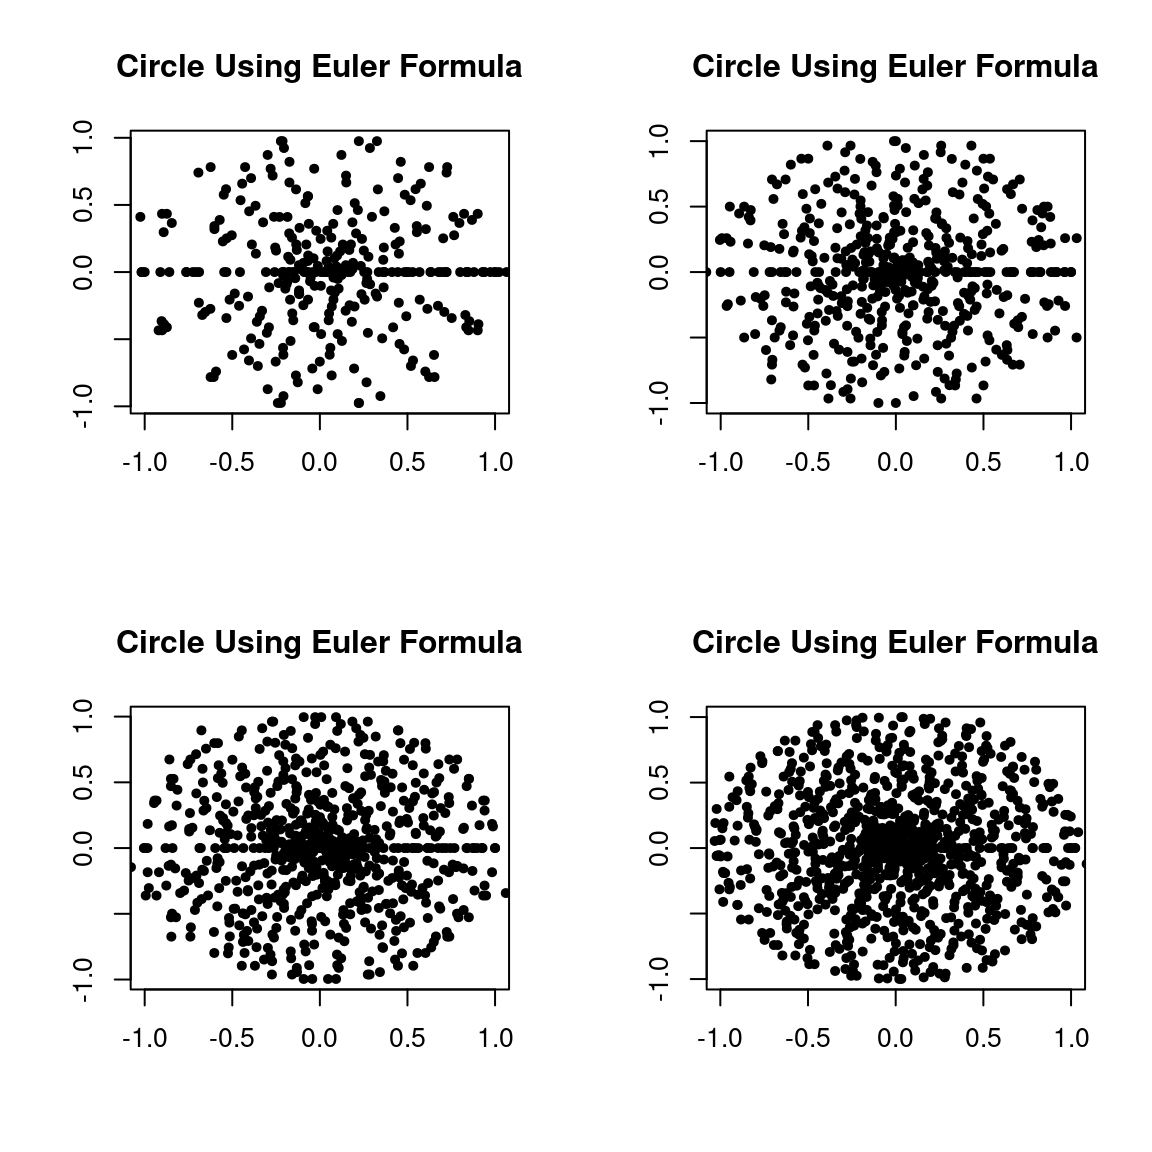
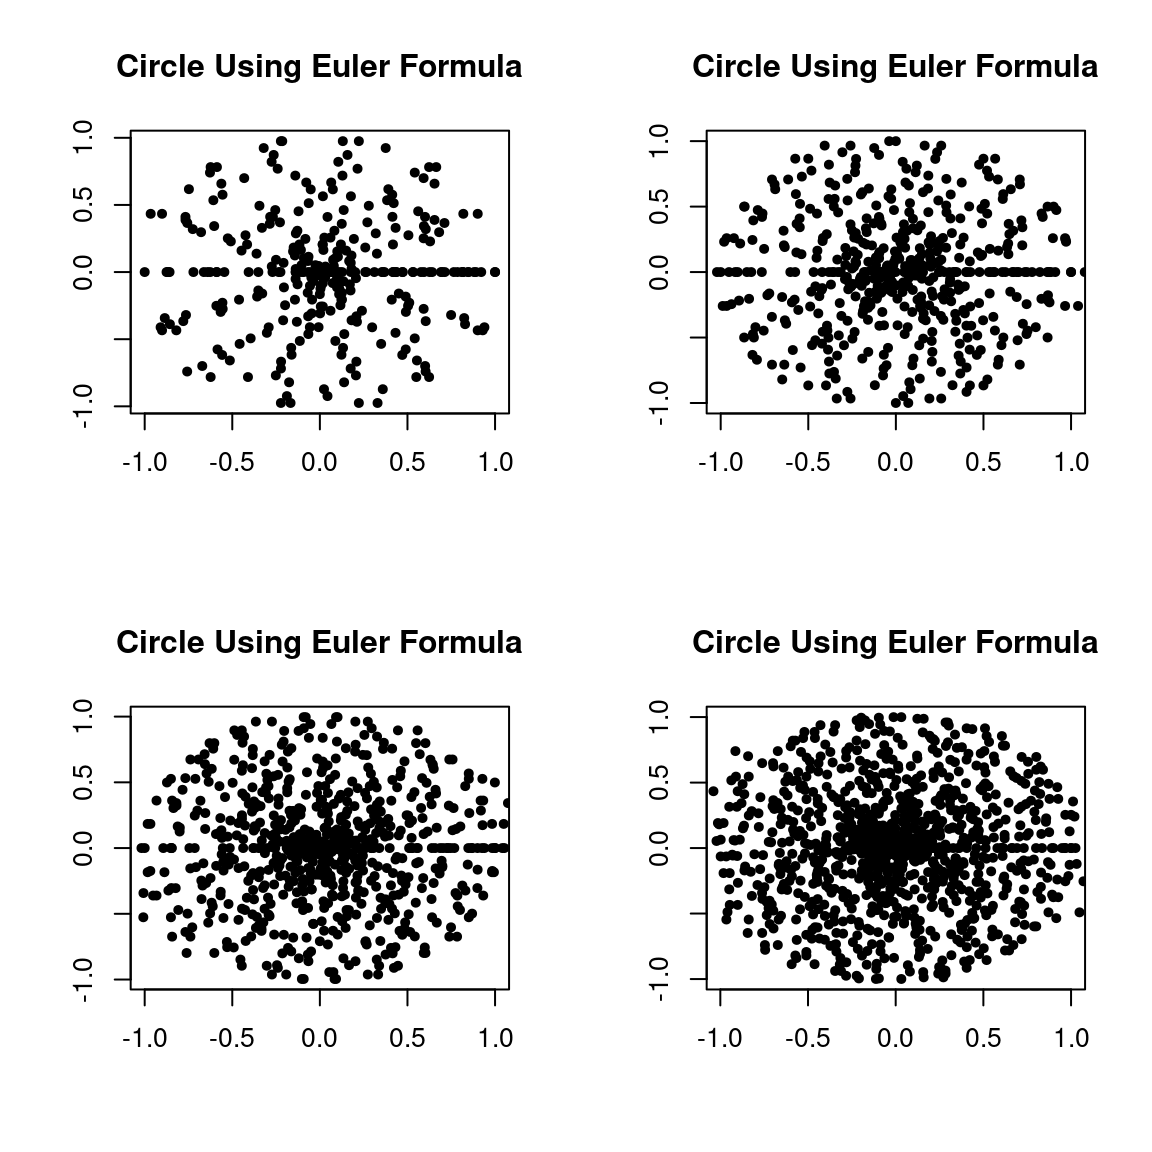
Add the homepage's animated starfield background to lecture slides
Fixed full-viewport canvas behind the whole reveal.js deck (via
include-after-body in slide/_quarto.yml), reusing the constellation
particle effect from raw/index.qmd so it runs continuously across slide
navigation instead of just the homepage hero.

Claude-Session: https://claude.ai/code/session_01PmQJ68uA89Fudx9oxer78J

diff --git a/slide/js/starfield-bg.js b/slide/js/starfield-bg.js
@@ -1,0 +1,74 @@
+// Fixed full-viewport starfield behind the reveal.js deck — same effect as
+// the homepage hero (raw/index.qmd), but sized to the window and running
+// continuously across every slide rather than a single hero section.
+(function () {
+  var canvas = document.getElementById('sm-slide-canvas');
+  if (!canvas || !canvas.getContext) return;
+  var ctx = canvas.getContext('2d');
+  var W, H, dpr;
+  var particles = [];
+  var reduceMotion = window.matchMedia && window.matchMedia('(prefers-reduced-motion: reduce)').matches;
+  var count = Math.min(60, Math.floor((window.innerWidth || 1200) / 22));
+
+  function resize() {
+    dpr = Math.min(window.devicePixelRatio || 1, 2);
+    W = window.innerWidth;
+    H = window.innerHeight;
+    canvas.width = W * dpr;
+    canvas.height = H * dpr;
+    canvas.style.width = W + 'px';
+    canvas.style.height = H + 'px';
+    ctx.setTransform(dpr, 0, 0, dpr, 0, 0);
+  }
+
+  function init() {
+    particles = [];
+    for (var i = 0; i < count; i++) {
+      particles.push({
+        x: Math.random() * W,
+        y: Math.random() * H,
+        vx: (Math.random() - 0.5) * 0.2,
+        vy: (Math.random() - 0.5) * 0.2,
+        r: Math.random() * 1.5 + 0.5
+      });
+    }
+  }
+
+  function step() {
+    ctx.clearRect(0, 0, W, H);
+    var maxDist = 130;
+    for (var i = 0; i < particles.length; i++) {
+      var p = particles[i];
+      p.x += p.vx; p.y += p.vy;
+      if (p.x < 0 || p.x > W) p.vx *= -1;
+      if (p.y < 0 || p.y > H) p.vy *= -1;
+
+      for (var j = i + 1; j < particles.length; j++) {
+        var q = particles[j];
+        var dx = p.x - q.x, dy = p.y - q.y;
+        var dist = Math.sqrt(dx * dx + dy * dy);
+        if (dist < maxDist) {
+          ctx.strokeStyle = 'rgba(0,229,255,' + (0.12 * (1 - dist / maxDist)) + ')';
+          ctx.lineWidth = 1;
+          ctx.beginPath();
+          ctx.moveTo(p.x, p.y);
+          ctx.lineTo(q.x, q.y);
+          ctx.stroke();
+        }
+      }
+    }
+    for (var k = 0; k < particles.length; k++) {
+      var pt = particles[k];
+      ctx.beginPath();
+      ctx.fillStyle = 'rgba(180,225,255,0.7)';
+      ctx.arc(pt.x, pt.y, pt.r, 0, Math.PI * 2);
+      ctx.fill();
+    }
+    if (!reduceMotion) requestAnimationFrame(step);
+  }
+
+  resize();
+  init();
+  step();
+  window.addEventListener('resize', function () { resize(); init(); });
+})();

diff --git a/slide/css/styles.css b/slide/css/styles.css
@@ -13,15 +13,28 @@
   --sm-muted: #9aa4c2;
 }
 
-/* Slide background: dark radial glow instead of the old conic-gradient
-   rainbow experiments. */
-.reveal{
+/* Slide background: dark radial glow on <body>, with the starfield canvas
+   (injected via include-after-body, see _quarto.yml) fixed behind it and
+   .reveal itself made transparent so the animation shows through on every
+   slide — the same look as the homepage hero, running continuously. */
+body{
   background: radial-gradient(1200px 700px at 50% -10%, #0e1930 0%, var(--sm-bg) 65%) !important;
+  font-family: 'Inter', 'Segoe UI', Roboto, system-ui, sans-serif;
   color: var(--sm-text);
 }
-body{
-  background-color: var(--sm-bg);
-  font-family: 'Inter', 'Segoe UI', Roboto, system-ui, sans-serif;
+#sm-slide-canvas{
+  position: fixed;
+  inset: 0;
+  width: 100vw;
+  height: 100vh;
+  z-index: 0;
+  pointer-events: none;
+  display: block;
+}
+.reveal{
+  background: transparent !important;
+  position: relative;
+  z-index: 1;
   color: var(--sm-text);
 }
 

diff --git a/slide/6-normal-distribution.html b/slide/6-normal-distribution.html
@@ -910,6 +910,8 @@ f(x) = \frac{1}{\sigma\sqrt{2\pi}} e^{-\frac{1}{2}\left(\frac{x-\mu}{\sigma}\rig
         }
       });
       </script>
+    <canvas id="sm-slide-canvas" aria-hidden="true"></canvas>
+    <script src="js/starfield-bg.js"></script>
     
 
 </body></html>

diff --git a/slide/02-data-collection-organization-presentation.html b/slide/02-data-collection-organization-presentation.html
@@ -1180,6 +1180,8 @@ White Brown Pink  Red   White Brown Green Red   Pink  Red  </code></pre>
         }
       });
       </script>
+    <canvas id="sm-slide-canvas" aria-hidden="true"></canvas>
+    <script src="js/starfield-bg.js"></script>
     
 
 </body></html>

diff --git a/slide/permutation-combination.html b/slide/permutation-combination.html
@@ -1509,6 +1509,8 @@ Out of n items, take at least one item each time.
         }
       });
       </script>
+    <canvas id="sm-slide-canvas" aria-hidden="true"></canvas>
+    <script src="js/starfield-bg.js"></script>
     
 
 </body></html>

diff --git a/slide/02-random-variable.html b/slide/02-random-variable.html
@@ -1216,6 +1216,8 @@ x^2/2,  &amp; 0\le x \le 1 \\
         }
       });
       </script>
+    <canvas id="sm-slide-canvas" aria-hidden="true"></canvas>
+    <script src="js/starfield-bg.js"></script>
     
 
 </body></html>

diff --git a/slide/01-probability-intro.html b/slide/01-probability-intro.html
@@ -1923,6 +1923,8 @@ function klikaj(i) {
         }
       });
       </script>
+    <canvas id="sm-slide-canvas" aria-hidden="true"></canvas>
+    <script src="js/starfield-bg.js"></script>
     
 
 </body></html>

diff --git a/slide/03-central-tendency.html b/slide/03-central-tendency.html
@@ -1735,6 +1735,8 @@ function klikaj(i) {
         }
       });
       </script>
+    <canvas id="sm-slide-canvas" aria-hidden="true"></canvas>
+    <script src="js/starfield-bg.js"></script>
     
 
 </body></html>

diff --git a/slide/04-dispersion.html b/slide/04-dispersion.html
@@ -1142,6 +1142,8 @@ function klikaj(i) {
         }
       });
       </script>
+    <canvas id="sm-slide-canvas" aria-hidden="true"></canvas>
+    <script src="js/starfield-bg.js"></script>
     
 
 </body></html>

diff --git a/slide/09-vital-stat.html b/slide/09-vital-stat.html
@@ -1166,6 +1166,8 @@ function klikaj(i) {
         }
       });
       </script>
+    <canvas id="sm-slide-canvas" aria-hidden="true"></canvas>
+    <script src="js/starfield-bg.js"></script>
     
 
 </body></html>

diff --git a/slide/01-stat-intro.html b/slide/01-stat-intro.html
@@ -1101,6 +1101,8 @@ Abdullah Al Mahmud
         }
       });
       </script>
+    <canvas id="sm-slide-canvas" aria-hidden="true"></canvas>
+    <script src="js/starfield-bg.js"></script>
     
 
 </body></html>

diff --git a/slide/03-expectation.html b/slide/03-expectation.html
@@ -1038,6 +1038,8 @@ Abdullah Al Mahmud
         }
       });
       </script>
+    <canvas id="sm-slide-canvas" aria-hidden="true"></canvas>
+    <script src="js/starfield-bg.js"></script>
     
 
 </body></html>
